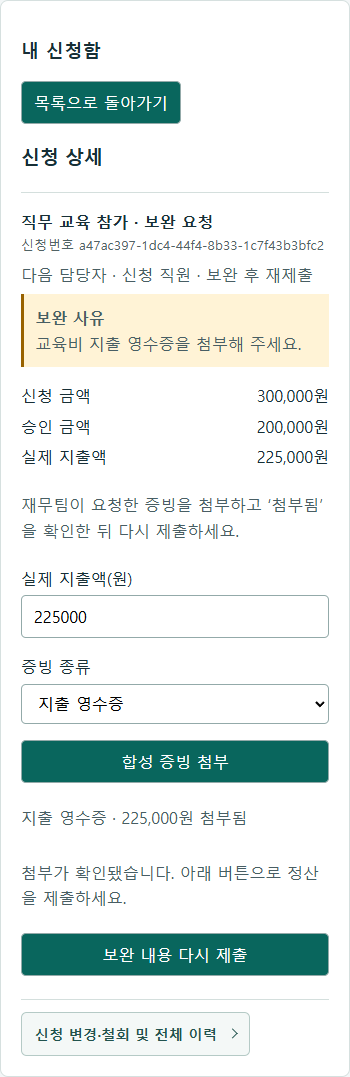
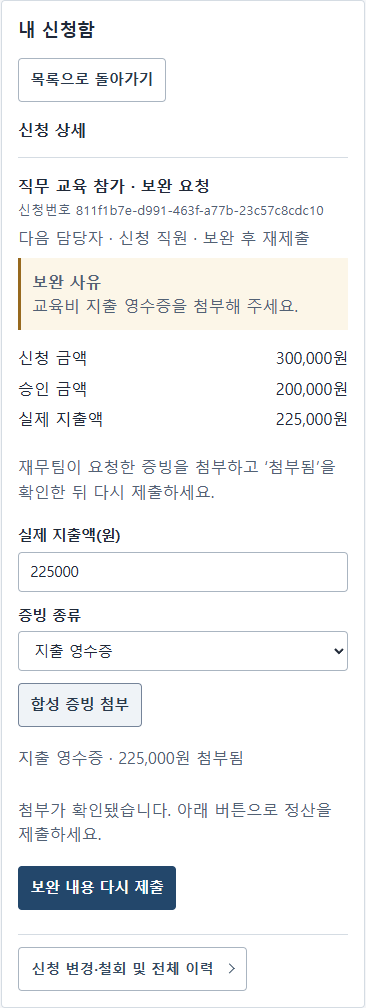
Record Workspace Deployment Results

Changed region(s): [[0.0, 0.0, 0.9429, 1.0], [0.9714, 0.0, 1.0, 1.0], [0.9143, 0.5536, 0.9429, 0.5843]]

diff --git a/docs/PROGRESS.md b/docs/PROGRESS.md
@@ -313,3 +313,10 @@ React 신청함을 처음 사용한 참가자 1명이 영수증이 필요한 교
 왼쪽에 신청 목록 제목과 건별 다음 담당자를 추가하고 두 신청 중 하나를 선택해 우측 상세가 갱신되는 것을 확인했다. 이력 링크는 하단에 구분선을 둔 보조 메뉴로 표시하고, 보완 양식에 첨부 확인 후 다시 제출하는 순서를 표시했다. 공개 Chrome에서 세 화면 폭의 보완·정산과 키보드 이력 이동을 포함해 23건이 통과했고 별도 조건 3건은 건너뛰었다. 수정 뒤 처음 방문하는 사람의 수행 시간은 측정하지 않았다. [변경 코드](https://github.com/kimdol/department-budget/commit/4ef064d) · [공개 시험 결과](measurements/deployment-inbox-navigation.json) · [신청 두 건이 있는 화면](images/employee-inbox.png)
 
 공개 배포에서 390px과 768px 신청 목록을 각각 두 번 열었다. ‘정산 완료’ 필터로 상세를 열기 직전의 세로 스크롤 좌표를 읽고, 목록 복귀 후 같은 좌표·필터·선택 행 포커스를 함께 검사했다. 4회 모두 통과했다. 배포 커밋의 Oracle 원장 시험과 Caddy HTTPS·MySQL 연계 시험도 통과했다. [브라우저 회귀 시험](../frontend/tests/employee-inbox.spec.ts) · [배포 커밋의 CI 결과](https://github.com/kimdol/department-budget/actions/runs/44909305589)
+
+
+## 체험 설정과 개인 장부
+
+조직·부서·역할 설정을 부서 예산 요약 위에 배치했다. 개인 장부는 지출 입력·내역과 예산 설정·예상 비용을 나누고, 저장 결과를 화면에 표시한다. 로컬 Chrome 시험 22건이 통과했고 공개 HTTPS에서 23건이 통과했다. 390px과 1280px에서 예산 500,000원과 지출 32,000원을 입력하고 잔액 468,000원 및 지출 내역을 확인했다. [변경 코드](https://github.com/kimdol/department-budget/commit/bbc6403) · [공개 시험 결과](measurements/deployment-workspace-layout.json) · [Oracle 통합 시험](https://github.com/kimdol/department-budget/actions/runs/44911498560)
+
+공개 주소의 도메인은 해석됐지만 HTTPS 연결과 SSH 배너 수신이 시간 초과됐고, 당시 콘솔에서 VM은 실행 상태였다. 일반 재부팅을 요청했고 재부팅 후 Java·HTTPS 프록시·포털 수신 서비스가 기동했다. 종료 단계에서 기본 스왑 사용량은 497MiB, 가용량은 0MiB였다. 직전 부팅의 커널 저널이 남아 있지 않아 장애 원인은 확정하지 못했다. 기존 부팅 볼륨에 1GiB 스왑을 추가한 뒤 활성 상태와 부팅 시 적용 설정을 확인했다. 재부팅·화면 배포·스왑 추가가 같은 복구 과정에서 진행되어 스왑의 단독 효과는 측정하지 않았다. 접속 장애로 중단된 참가자의 시도는 과제 완료 시간에서 제외한다.
